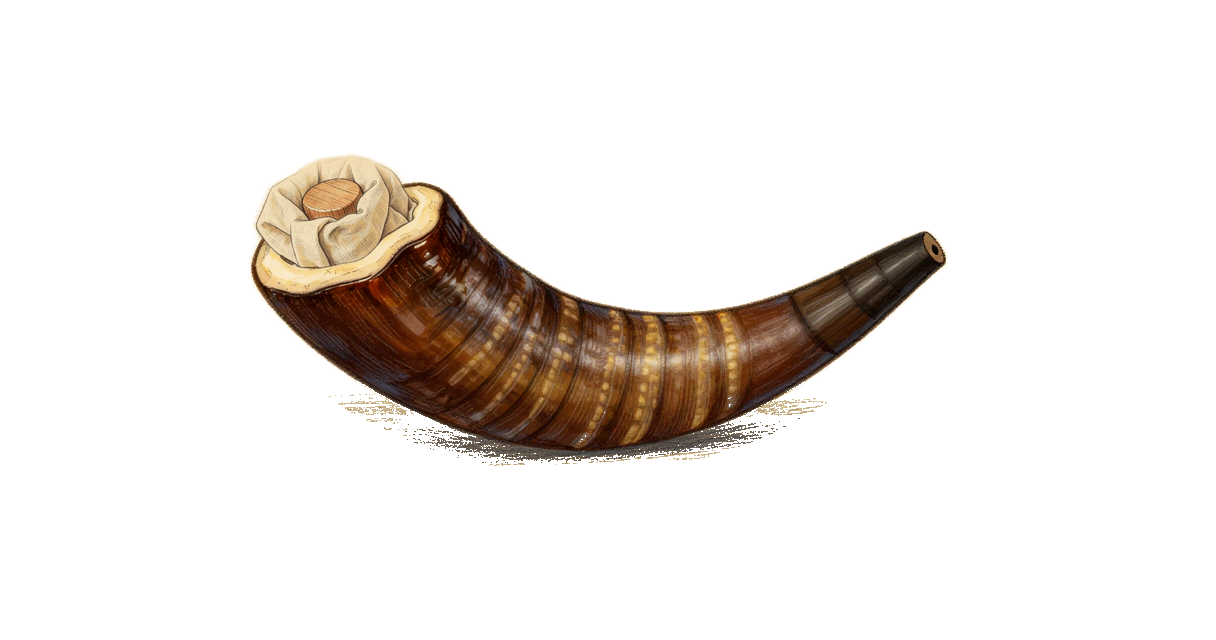
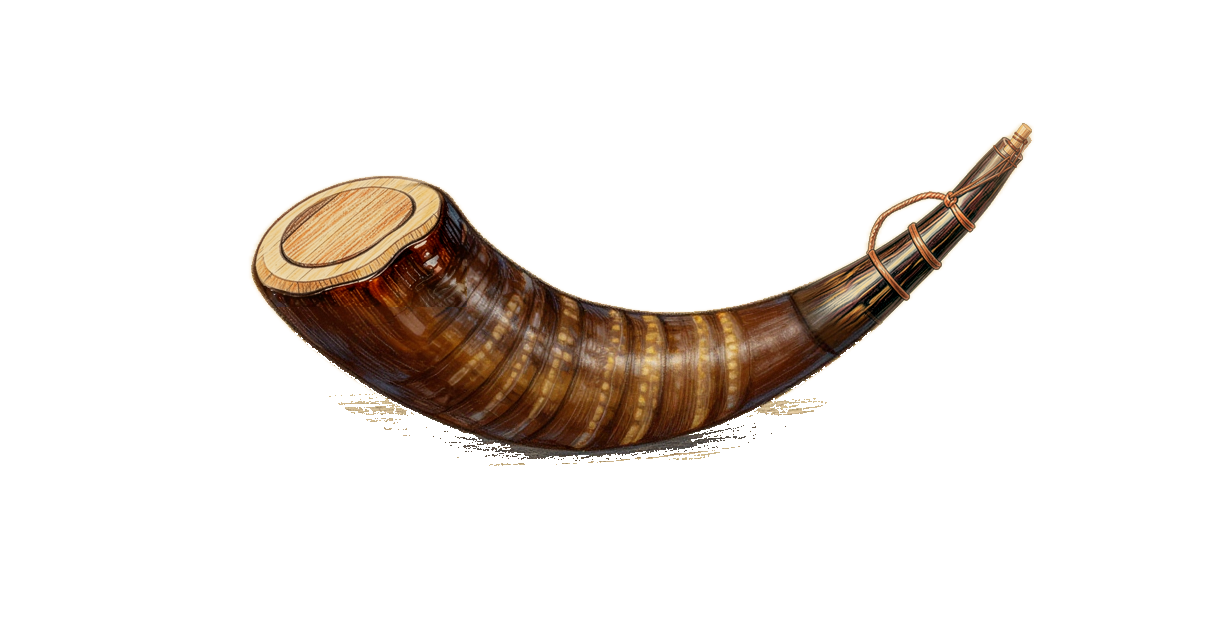
feat(canon): 새 기름 뿔 정본(673)으로 기혼·베들레헴 뿔 다시 · 판정 화면 task 674
horn_compose 정본 끝 기준점·그림자 구멍 메움. 기혼 틀림 1 · 베들레헴 s1·s3 틀림 1(뿔과 무관).

Claude-Session: https://claude.ai/code/session_012hBPKFwr9raj2757bWq1Lv

diff --git a/scripts/canon/batch/horn_scene_edit.py b/scripts/canon/batch/horn_scene_edit.py
@@ -17,7 +17,7 @@ SCENES = {
                               f"from that small tip hole down onto the boy's hair. {KEEP}"},
 }
 REF_PROMPT = ("Replace the horn the old man holds with the curved ram's horn from the second image — the same shape, glossy dark brown color "
-              "with pale amber streaks and the cloth-wrapped wooden stopper. He holds it by its thick stopper end in his two hands, it curves and "
+              "with pale amber streaks whose wide end is closed flat with a wooden disc. He holds its thick body near the wide end in his two hands, it curves and "
               "narrows to its small cut tip just above the kneeling boy's head, and golden oil drips in a thin stream from that small tip hole onto "
               "the boy's hair. ") + KEEP
 
@@ -31,7 +31,7 @@ def edit_ref(src, crop, box, seed, out):
     stem = out[:-4]
     inp, ref, raw = stem + "-in.png", stem + "-ref.png", stem + "-raw.png"
     base.crop((L, T, L + side, T + side)).resize((G.EDIT, G.EDIT), Image.LANCZOS).save(inp)
-    c = Image.open(os.path.join(CANON, "frozen/props/oil-horn.png")).convert("RGB").crop((200, 60, 1020, 520))
+    c = Image.open(os.path.join(CANON, "frozen/props/oil-horn.png")).convert("RGB").crop((220, 100, 1060, 480))   # task 673 정본(끝이 1031,123까지)
     bg = Image.new("RGB", (G.EDIT, G.EDIT), c.getpixel((5, 5))); c.thumbnail((G.EDIT, G.EDIT)); bg.paste(c, (0, (G.EDIT - c.height) // 2)); bg.save(ref)
     if not os.path.exists(raw):
         subprocess.run([G.MFLUX, "--model", "flux2-klein-4b", "-q", "8", "--image-paths", inp, ref, "--prompt", REF_PROMPT, "--seed", str(seed),

diff --git a/scripts/canon/batch/horn_compose.py b/scripts/canon/batch/horn_compose.py
@@ -63,7 +63,7 @@ SCENES = {
                           "front": (430, 245, 482, 296), "local_box": (410, 190, 580, 350), "strengths": (0.2,)},
 }
 CANON_HORN = "frozen/props/oil-horn.png"
-CANON_MOUTH, CANON_TIP = (352, 234), (968, 238)   # 정본 1216×640에서 입구(마개) 가운데 · 잘린 끝 주둥이
+CANON_MOUTH, CANON_TIP = (352, 234), (1028, 130)   # 정본 1216×640에서 넓은 밑동(바닥판) 가운데 · 끝 마개 끝(task 673 정본 — 옛 661은 968,238)
 
 
 def canon_cut():
@@ -78,7 +78,11 @@ def canon_cut():
         rgb = a[:, :, :3].astype(int)
         lum, sat = rgb.mean(2), rgb.max(2) - rgb.min(2)
         yy = np.arange(a.shape[0])[:, None]
-        a[(yy > 380) & (lum > 110) & (sat < 60), 3] = 0
+        a[(yy > 330) & (lum > 90) & (sat < 60), 3] = 0   # 아래 회색 그림자(673 정본은 그림자가 330부터)
+        import cv2   # 뿔 몸통의 옅은 호박색 줄무늬도 그림자 문턱에 걸려 구멍 — 바깥에서 닿지 않는 구멍은 다시 메움
+        keep = (a[:, :, 3] > 128).astype("uint8") * 255
+        ff = keep.copy(); cv2.floodFill(ff, np.zeros((ff.shape[0] + 2, ff.shape[1] + 2), "uint8"), (0, 0), 128)
+        a[(ff == 0) & (yy > 300), 3] = 255   # 위쪽 끈 고리 안(종이)은 메우지 않음
         Image.fromarray(a).save(out)
     return Image.open(out).convert("RGBA")
 
